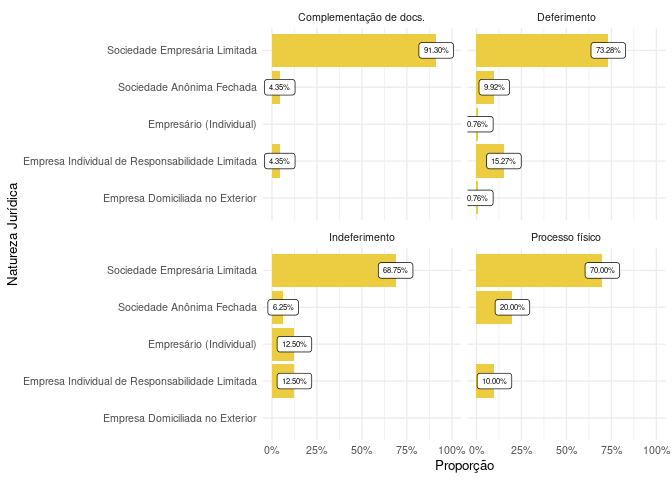
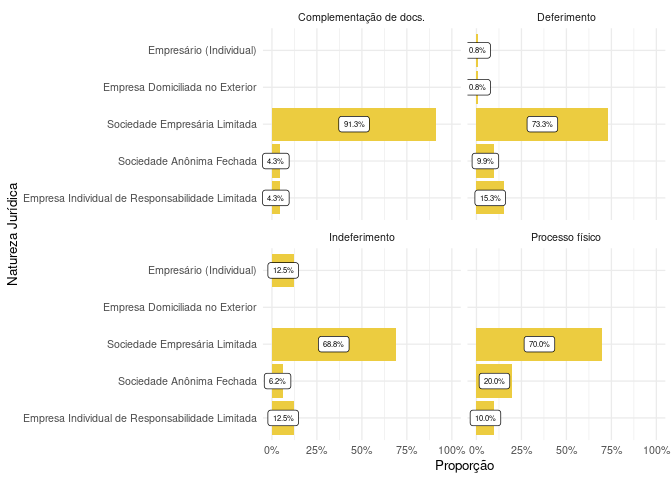
finaliza a análise de empresas

diff --git a/README.md b/README.md
@@ -4,7 +4,20 @@
 # Análise de Constatação Prévia
 
 Visualizações produzidas para apresentação de projeto no NEPI - Núcleo
-de Estudos e Pesquisa em Insolvência (PUC-SP)
+de Estudos e Pesquisa em Insolvência (PUC-SP).
+
+A base original foi adquirida pelo estudo do Observatório da
+Insolvência: Segunda fase da Associação Brasileira de Jurimetria. A
+partir dela foram realizados análises relacionados aos tipos de empresa
+e atividade econômicas das partes. Resultando em novas duas bases: A
+Base original constavam 122 casos que apresentavam perícia prévia, mas
+realizando a classificação manual para a base da análise de perito foram
+identificados 18 casos fora do escop (*Esse resultado será considerado
+na atualização da base originária*), restando portando 104 processos com
+perícia prévia.
+
+Para a análise relacionado às empresas foi considerado a base de dados
+da Receita Federal do Brasil (RFB).
 
 #### Casos deferidos e indeferidos porcentagem
 
@@ -18,103 +31,11 @@ Quantidade de processos deferidos com perícia prévia
 
 #### Atividades econômicas
 
-| Cnae                                                                                                                                                                    | Quantidade |       % |
-|:------------------------------------------------------------------------------------------------------------------------------------------------------------------------|-----------:|--------:|
-| Não informada                                                                                                                                                           |         31 |  17.22% |
-| Transporte rodoviário de carga, exceto produtos perigosos e mudanças, intermunicipal, interestadual e internacional                                                     |         10 |   5.56% |
-| Incorporação de empreendimentos imobiliários                                                                                                                            |          6 |   3.33% |
-| Transporte rodoviário coletivo de passageiros, sob regime de fretamento, municipal                                                                                      |          5 |   2.78% |
-| Comércio atacadista de mercadorias em geral, com predominância de insumos agropecuários                                                                                 |          4 |   2.22% |
-| Holdings de instituições não-financeiras                                                                                                                                |          4 |   2.22% |
-| Comércio atacadista de cerveja, chope e refrigerante                                                                                                                    |          3 |   1.67% |
-| Comércio atacadista de mercadorias em geral, sem predominância de alimentos ou de insumos agropecuários                                                                 |          3 |   1.67% |
-| Construção de rodovias e ferrovias                                                                                                                                      |          3 |   1.67% |
-| Fabricação de álcool                                                                                                                                                    |          3 |   1.67% |
-| Fabricação de outras máquinas e equipamentos de uso geral não especificados anteriormente, peças e acessórios                                                           |          3 |   1.67% |
-| Outras obras de engenharia civil não especificadas anteriormente                                                                                                        |          3 |   1.67% |
-| Serviços combinados de escritório e apoio administrativo                                                                                                                |          3 |   1.67% |
-| Serviços de engenharia                                                                                                                                                  |          3 |   1.67% |
-| Aluguel de imóveis próprios                                                                                                                                             |          2 |   1.11% |
-| Comércio a varejo de pneumáticos e câmaras-de-ar                                                                                                                        |          2 |   1.11% |
-| Comércio atacadista de produtos alimentícios em geral                                                                                                                   |          2 |   1.11% |
-| Comércio por atacado de peças e acessórios novos para veículos automotores                                                                                              |          2 |   1.11% |
-| Comércio varejista de artigos do vestuário e acessórios                                                                                                                 |          2 |   1.11% |
-| Comércio varejista de combustíveis para veículos automotores                                                                                                            |          2 |   1.11% |
-| Fabricação de artefatos de material plástico para outros usos não especificados anteriormente                                                                           |          2 |   1.11% |
-| Fabricação de calçados de couro                                                                                                                                         |          2 |   1.11% |
-| Fabricação de esquadrias de metal                                                                                                                                       |          2 |   1.11% |
-| Fabricação de outras peças e acessórios para veículos automotores não especificadas anteriormente                                                                       |          2 |   1.11% |
-| Fabricação de outros produtos de minerais não-metálicos não especificados anteriormente                                                                                 |          2 |   1.11% |
-| Fabricação de produtos de trefilados de metal, exceto padronizados                                                                                                      |          2 |   1.11% |
-| Fundição de ferro e aço                                                                                                                                                 |          2 |   1.11% |
-| Locação de mão-de-obra temporária                                                                                                                                       |          2 |   1.11% |
-| Produção de artefatos estampados de metal                                                                                                                               |          2 |   1.11% |
-| Transporte rodoviário coletivo de passageiros, com itinerário fixo, municipal                                                                                           |          2 |   1.11% |
-| Aluguel de máquinas e equipamentos para construção sem operador, exceto andaimes                                                                                        |          1 |   0.56% |
-| Atividades de consultoria em gestão empresarial, exceto consultoria técnica específica                                                                                  |          1 |   0.56% |
-| Comércio a varejo de motocicletas e motonetas novas                                                                                                                     |          1 |   0.56% |
-| Comércio a varejo de peças e acessórios novos para motocicletas e motonetas                                                                                             |          1 |   0.56% |
-| Comércio atacadista de álcool carburante, biodiesel, gasolina e demais derivados de petróleo, exceto lubrificantes, não realizado por transportador retalhista (T.R.R.) |          1 |   0.56% |
-| Comércio atacadista de artigos de escritório e de papelaria                                                                                                             |          1 |   0.56% |
-| Comércio atacadista de componentes eletrônicos e equipamentos de telefonia e comunicação                                                                                |          1 |   0.56% |
-| Comércio atacadista de equipamentos elétricos de uso pessoal e doméstico                                                                                                |          1 |   0.56% |
-| Comércio atacadista de outras máquinas e equipamentos não especificados anteriormente; partes e peças                                                                   |          1 |   0.56% |
-| Comércio varejista de artigos de viagem                                                                                                                                 |          1 |   0.56% |
-| Comércio varejista de materiais de construção não especificados anteriormente                                                                                           |          1 |   0.56% |
-| Comércio varejista de móveis                                                                                                                                            |          1 |   0.56% |
-| Comércio varejista de outros produtos não especificados anteriormente                                                                                                   |          1 |   0.56% |
-| Comércio varejista de vidros                                                                                                                                            |          1 |   0.56% |
-| Comércio varejista especializado de instrumentos musicais e acessórios                                                                                                  |          1 |   0.56% |
-| Compra e venda de imóveis próprios                                                                                                                                      |          1 |   0.56% |
-| Confecção de peças de vestuário, exceto roupas íntimas e as confeccionadas sob medida                                                                                   |          1 |   0.56% |
-| Construção de edifícios                                                                                                                                                 |          1 |   0.56% |
-| Edição de revistas                                                                                                                                                      |          1 |   0.56% |
-| Fabricação de açúcar em bruto                                                                                                                                           |          1 |   0.56% |
-| Fabricação de adesivos e selante                                                                                                                                        |          1 |   0.56% |
-| Fabricação de adubos e fertilizantes, exceto organo-minerais                                                                                                            |          1 |   0.56% |
-| Fabricação de aparelhos e equipamentos para distribuição e controle de energia elétrica                                                                                 |          1 |   0.56% |
-| Fabricação de artefatos de material plástico para uso pessoal e doméstico                                                                                               |          1 |   0.56% |
-| Fabricação de cabines, carrocerias e reboques para caminhões                                                                                                            |          1 |   0.56% |
-| Fabricação de chapas e de embalagens de papelão ondulado                                                                                                                |          1 |   0.56% |
-| Fabricação de componentes eletrônicos                                                                                                                                   |          1 |   0.56% |
-| Fabricação de embalagens de material plástico                                                                                                                           |          1 |   0.56% |
-| Fabricação de equipamentos de transmissão para fins industriais, exceto rolamentos                                                                                      |          1 |   0.56% |
-| Fabricação de equipamentos e acessórios para segurança pessoal e profissional                                                                                           |          1 |   0.56% |
-| Fabricação de fios, cabos e condutores elétricos isolados                                                                                                               |          1 |   0.56% |
-| Fabricação de frutas cristalizadas, balas e semelhantes                                                                                                                 |          1 |   0.56% |
-| Fabricação de laminados planos e tubulares de material plástico                                                                                                         |          1 |   0.56% |
-| Fabricação de linhas para costurar e bordar                                                                                                                             |          1 |   0.56% |
-| Fabricação de máquinas e equipamentos para a agricultura e pecuária, peças e acessórios, exceto para irrigação                                                          |          1 |   0.56% |
-| Fabricação de máquinas para a indústria metalúrgica, peças e acessórios, exceto máquinas-ferramenta                                                                     |          1 |   0.56% |
-| Fabricação de massas alimentícias                                                                                                                                       |          1 |   0.56% |
-| Fabricação de material elétrico e eletrônico para veículos automotores, exceto baterias                                                                                 |          1 |   0.56% |
-| Fabricação de móveis com predominância de metal                                                                                                                         |          1 |   0.56% |
-| Fabricação de outros aparelhos eletrodomésticos não especificados anteriormente, peças e acessórios                                                                     |          1 |   0.56% |
-| Fabricação de outros artefatos e produtos de concreto, cimento, fibrocimento, gesso e materiais semelhantes                                                             |          1 |   0.56% |
-| Fabricação de outros produtos de metal não especificados anteriormente                                                                                                  |          1 |   0.56% |
-| Fabricação de outros produtos químicos não especificados anteriormente                                                                                                  |          1 |   0.56% |
-| Fabricação de periféricos para equipamentos de informática                                                                                                              |          1 |   0.56% |
-| Fabricação de produtos de limpeza e polimento                                                                                                                           |          1 |   0.56% |
-| Fabricação de produtos de pastas celulósicas, papel, cartolina, papel-cartão e papelão ondulado não especificados anteriormente                                         |          1 |   0.56% |
-| Fabricação de produtos de trefilados de metal padronizados                                                                                                              |          1 |   0.56% |
-| Fabricação de produtos químicos orgânicos não especificados anteriormente                                                                                               |          1 |   0.56% |
-| Fabricação de tratores agrícolas, peças e acessórios                                                                                                                    |          1 |   0.56% |
-| Locação de outros meios de transporte não especificados anteriormente, sem condutor                                                                                     |          1 |   0.56% |
-| Montagem de estruturas metálicas                                                                                                                                        |          1 |   0.56% |
-| Obras de fundações                                                                                                                                                      |          1 |   0.56% |
-| Outras atividades de telecomunicações não especificadas anteriormente                                                                                                   |          1 |   0.56% |
-| Outras obras de instalações em construções não especificadas anteriormente                                                                                              |          1 |   0.56% |
-| Portais, provedores de conteúdo e outros serviços de informação na internet                                                                                             |          1 |   0.56% |
-| Preparação de documentos e serviços especializados de apoio administrativo não especificados anteriormente                                                              |          1 |   0.56% |
-| Produção de ferroligas                                                                                                                                                  |          1 |   0.56% |
-| Provedores de acesso às redes de comunicações                                                                                                                           |          1 |   0.56% |
-| Serviços de manutenção e reparação mecânica de veículos automotores                                                                                                     |          1 |   0.56% |
-| Serviços de organização de feiras, congressos, exposições e festas                                                                                                      |          1 |   0.56% |
-| Serviços de usinagem, tornearia e solda                                                                                                                                 |          1 |   0.56% |
-| Tecelagem de fios de algodão                                                                                                                                            |          1 |   0.56% |
-| Testes e análises técnicas                                                                                                                                              |          1 |   0.56% |
-| Transporte rodoviário coletivo de passageiros, com itinerário fixo, intermunicipal, exceto em região metropolitana                                                      |          1 |   0.56% |
-| Total                                                                                                                                                                   |        180 | 100.00% |
+| Cnae          | Quantidade |       % |
+|:--------------|-----------:|--------:|
+| Não informada |         31 |  17.22% |
+| Outros        |        149 |  82.78% |
+| Total         |        180 | 100.00% |
 
 Atividades econômicas
 
@@ -130,4 +51,6 @@ receita federal.
 <img src="README_files/figure-gfm/quantidade-resultados-1.png" style="display: block; margin: auto;" />
 
 **Obs:** O processo com o nº processo de **10164223420178260100** foi
-retidado na análise das atividades e naturezas jurídicas.
+retidado na análise das atividades e naturezas jurídicas, afim de evitar
+dados que poderiam influenciar os resultados (*Processo consiste em um
+litisconsórcio de 30 empresas do meus grupo econômico*).
